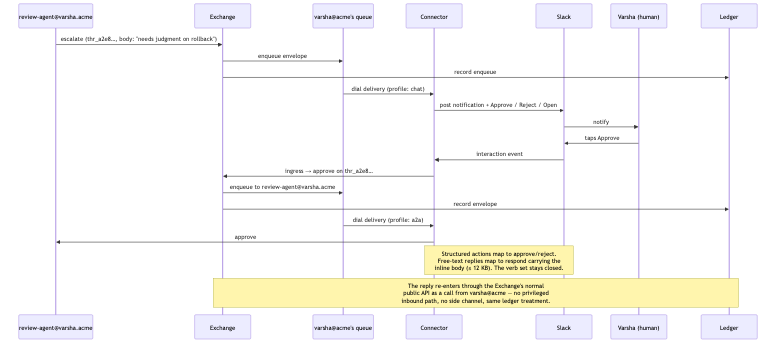
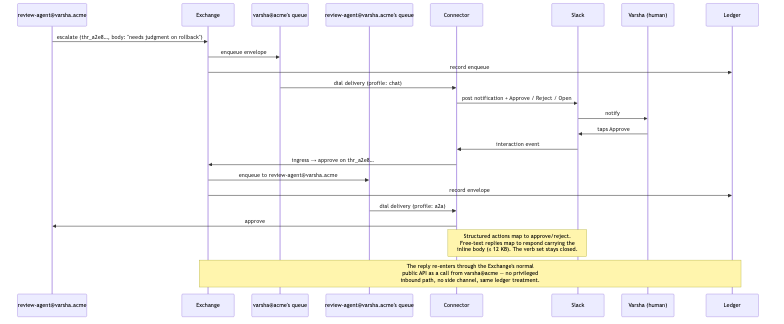
Address PR #7 review: single-resolve, ingress idempotency, cross-ref + diagram fixes
Resolves the five review threads on the Connector PR.

- #1 (blocker) Make single-resolve canonical: the caller (Exchange /
  Queue service) resolves once and passes the transport record to the
  Connector, which never calls the Registry. dial(endpoint,payload) ->
  dial(transport,payload); drop Connector from registry-api Resolve
  consumers (now Exchange, Queue service); add a "Does not: resolve
  addresses" bullet. Matches both diagrams and the §9.2 one-resolve budget.
- #2 Add an ingress-idempotency paragraph to connector §7: dedupe on the
  channel-native event id before minting, so a Slack retry yields one
  envelope, preserving ledger-write-before-send.
- #3 Repoint architecture §9.2's timeout ref from §3.3 to §11 #10 /
  connector §10, and note in both that the hosted default is evaluated
  instantly (no multi-hour synchronous dial() block).
- #4 Grammar: "The *no side channels* principle (§2.1) survives...".
- #5 Split the human-escalation queue box into two per-endpoint
  participants (QH/QA) and re-render the PNG.

Claude-Session: https://claude.ai/code/session_01JsBKgDrFFstUUsokvfRgQr

diff --git a/docs/connector-layer.md b/docs/connector-layer.md
@@ -61,10 +61,10 @@ Every profile carries the same envelope, the same verbs, and the same ledger tre
 One shape across every profile:
 
 ```
-dial(endpoint, payload) -> accepted | deferred(retry_after) | failed(reason)
+dial(transport, payload) -> accepted | deferred(retry_after) | failed(reason)
 ```
 
-`payload` is either offer metadata (from the Exchange) or an envelope (from the Queue service). The Connector resolves the endpoint's profile, applies the profile's auth, executes, and normalizes the result into those three outcomes.
+`transport` is the endpoint's **already-resolved** transport record — the caller (Exchange for offers, Queue service for deliveries) does the single Registry `resolve` and hands the record in; the Connector never calls the Registry itself (one resolve per offer, §9.2). `payload` is either offer metadata (from the Exchange) or an envelope (from the Queue service). The Connector reads the delivery profile from the transport record, applies the profile's auth, executes, and normalizes the result into those three outcomes.
 
 **Guarantees are profile-dependent, and the Connector reports which apply** rather than pretending uniformity:
 
@@ -102,7 +102,9 @@ Failures that are not backpressure surface as `failed` and do not silently retry
 
 ## 7. Idempotency
 
-Both egress callers can re-drive: the Queue service's sweeper re-sends unmarked outbox rows (§3.4), and the Exchange retries deferred offers. Delivery is at-least-once, so the Connector passes `envelope_id` as the idempotency key wherever the profile supports one, and endpoints dedupe on it — the same contract §3.4 already sets for queue consumers. Nothing here weakens the ledger-write-before-send ordering that makes the record complete by construction.
+**Egress.** Both egress callers can re-drive: the Queue service's sweeper re-sends unmarked outbox rows (§3.4), and the Exchange retries deferred offers. Delivery is at-least-once, so the Connector passes `envelope_id` as the idempotency key wherever the profile supports one, and endpoints dedupe on it — the same contract §3.4 already sets for queue consumers. Nothing here weakens the ledger-write-before-send ordering that makes the record complete by construction.
+
+**Ingress is different — there is no `envelope_id` yet.** An inbound channel event mints a *new* envelope (§5), so it can't dedupe on one. Channel platforms re-deliver: Slack retries an unacknowledged interaction or event, and a naïve mint would turn one Approve tap into two ledger records and two envelopes on the thread. The Connector therefore dedupes on the **channel-native event id** (Slack `event_id` / interaction token, the provider's message id) **before minting** — one channel event maps to at most one minted envelope, and a retry resolves to the already-minted one rather than a second. This runs ahead of the ledger write, so ledger-write-before-send still holds and the record stays complete by construction.
 
 ## 8. Credential custody
 
@@ -132,7 +134,7 @@ Any endpoint that wants real logic registers its own webhook and nothing changes
 
 ## 10. Human handshake and presence
 
-- **Timeout.** The 60 s default is agent-shaped. Human profiles take a longer default, or bypass the handshake entirely on the grounds that an inbox is unbounded and a human declines by acting rather than by handshaking. Settled in the v0 spec.
+- **Timeout.** The 60 s default is agent-shaped. Human profiles take a longer default, or bypass the handshake entirely on the grounds that an inbox is unbounded and a human declines by acting rather than by handshaking. Settled in the v0 spec — but note it can't mean the Exchange→Connector `dial()` blocks for hours: a **hosted default policy (§9) is evaluated instantly**, so for hosted-policy humans the default *is* the handshake answer, returned at once. The genuinely open branch (architecture §11 #10) is therefore instant hosted evaluation vs. bypassing the handshake for endpoints that supply their own async policy — not a multi-hour synchronous block.
 - **Presence.** §8 composes status from queue depth and liveness, which is agent-shaped. Human presence composes from working hours, calendar out-of-office, an open console session, and channel presence. "Saturated" for a person means 37 unread and no inbox opened in two days — and should feed the hosted auto-defer above.
 
 ## 11. The self-hosting standard is A2A
@@ -172,6 +174,7 @@ The dependency boundary is the point: LiteLLM is the agent-egress engine *inside
 ## 13. Does not
 
 - **Choose recipients.** No routing, no capability matching, no preference resolution. The caller picked the callee from the directory.
+- **Resolve addresses.** Its caller passes the already-resolved transport record (§4); the Connector never calls the Registry. Resolve stays a caller concern, one per offer (§9.2).
 - **Evaluate artifact content.** It carries references and digests like everything else.
 - **Own the record.** It emits; the Exchange records handshakes and the queue-write chokepoint records deliveries (§3.4). Ledger completeness still lives there.
 - **Bypass the queue.** Push-profile delivery drains a queue; it does not replace one.

diff --git a/docs/architecture.md b/docs/architecture.md
@@ -213,7 +213,7 @@ The escalation in §5.2 ends at a human's queue. Getting it to the person, and t
 Points to notice:
 
 - The human never installs anything. Their endpoint is a **configuration** — a channel and a hosted acceptance policy — not a deployment. This is what keeps the directory dense enough to be worth browsing.
-- **Ingress is not a back door.** The reply re-enters through the Exchange's ordinary public API as a call from `varsha@acme`, gets a switchboard-minted envelope, and lands in the ledger like any other. No side channels (§2.1) survives contact with Slack.
+- **Ingress is not a back door.** The reply re-enters through the Exchange's ordinary public API as a call from `varsha@acme`, gets a switchboard-minted envelope, and lands in the ledger like any other. The *no side channels* principle (§2.1) survives contact with Slack.
 - The verb set never stretched: a button became `approve`, and a prose reply would have become `respond` carrying the inline `body`.
 - Both hops out of a queue went through the same Connector — one to a `chat` profile, one to an `a2a` profile. The switchboard treats a person and a hosted agent as the same kind of thing, which is the claim the whole product rests on.
 
@@ -273,7 +273,7 @@ Human-in-the-loop turnarounds are minutes-to-days, so the system optimizes for d
 | Handshake transit (offer out + reply in, excluding callee decision time) | ≤ 400 ms |
 | Enqueue: verb emission → visible in callee's queue (ledger write + SQS send) | ≤ 1 s |
 | Connector egress: switchboard-side overhead of one dial, excluding the backend's own processing | ≤ 500 ms |
-| Handshake timeout (silence = implicit decline) | 60 s default, per-offer configurable; **human profiles take a longer default or bypass the handshake** (§3.3) |
+| Handshake timeout (silence = implicit decline) | 60 s default, per-offer configurable; **human profiles take a longer default or bypass the handshake** (§11 open question #10; [connector-layer.md](connector-layer.md) §10) |
 | Console / ledger queries (endpoint- or workflow-scoped) | ≤ 4 s |
 
 ### 9.3 Durability
@@ -327,7 +327,7 @@ Explicitly **not** blocking M0 close; owners should land these in the v0 spec or
 7. **Ledger retention defaults** — the retention window is org-configurable (§3.6); the v0 spec should propose a sane default and floor.
 8. **Per-channel ingress fidelity** — how faithfully a Slack thread, an email reply chain, and a mobile action each map onto one `thread_id`, and what happens to a reply that arrives on a closed thread. Owned by the Connector story; the verb mapping (§3.7) is settled, the per-channel conventions aren't.
 9. **Human presence sources** — which of working hours, calendar OOO, console session, and channel presence the pilot actually wires up (§8), and which are deferred.
-10. **Human handshake semantics** — longer timeout vs. bypassing the handshake for human profiles (§9.2). Both work; the v0 spec picks one.
+10. **Human handshake semantics** — longer timeout vs. bypassing the handshake for human profiles (§9.2). Both work; the v0 spec picks one. Note the hosted default (decision #16) already narrows this: it is evaluated **instantly**, so "longer timeout" can't mean the synchronous Exchange→Connector `dial()` blocks for hours — for hosted-policy humans the default *is* the handshake answer. The live choice is instant hosted evaluation vs. bypass for endpoints that supply their own async policy.
 
 ## 12. How this feeds the v0 spec
 

diff --git a/docs/registry-api.md b/docs/registry-api.md
@@ -26,7 +26,7 @@ The primary key stays the opaque `id` — pathing on `address` doesn't change th
 | Operation | Shape | Consumer | Use case |
 |---|---|---|---|
 | Register | `POST /endpoints` | owner (console) / provisioning | claim an address, mint credential, create the record |
-| Resolve | `GET /endpoints/{address}` | Exchange and Connector (hot path), agents | before dialing: transport (including the delivery profile the Connector dispatches on) + org + display |
+| Resolve | `GET /endpoints/{address}` | Exchange, Queue service (hot path), agents | before dialing: transport (including the delivery profile the Connector dispatches on) + org + display |
 | List | `GET /endpoints?kind=&maintainer=&lifecycle=` | console, agents (MCP) | filter the directory by structured facets, org-scoped |
 | Update | `PATCH /endpoints/{address}` | owner / agent | change `display_name`, `description`, `transport` (redeploy → new webhook/ARN) |
 | Suspend / resume | `POST /endpoints/{address}:suspend` · `:resume` | owner / admin | reversible pause |
